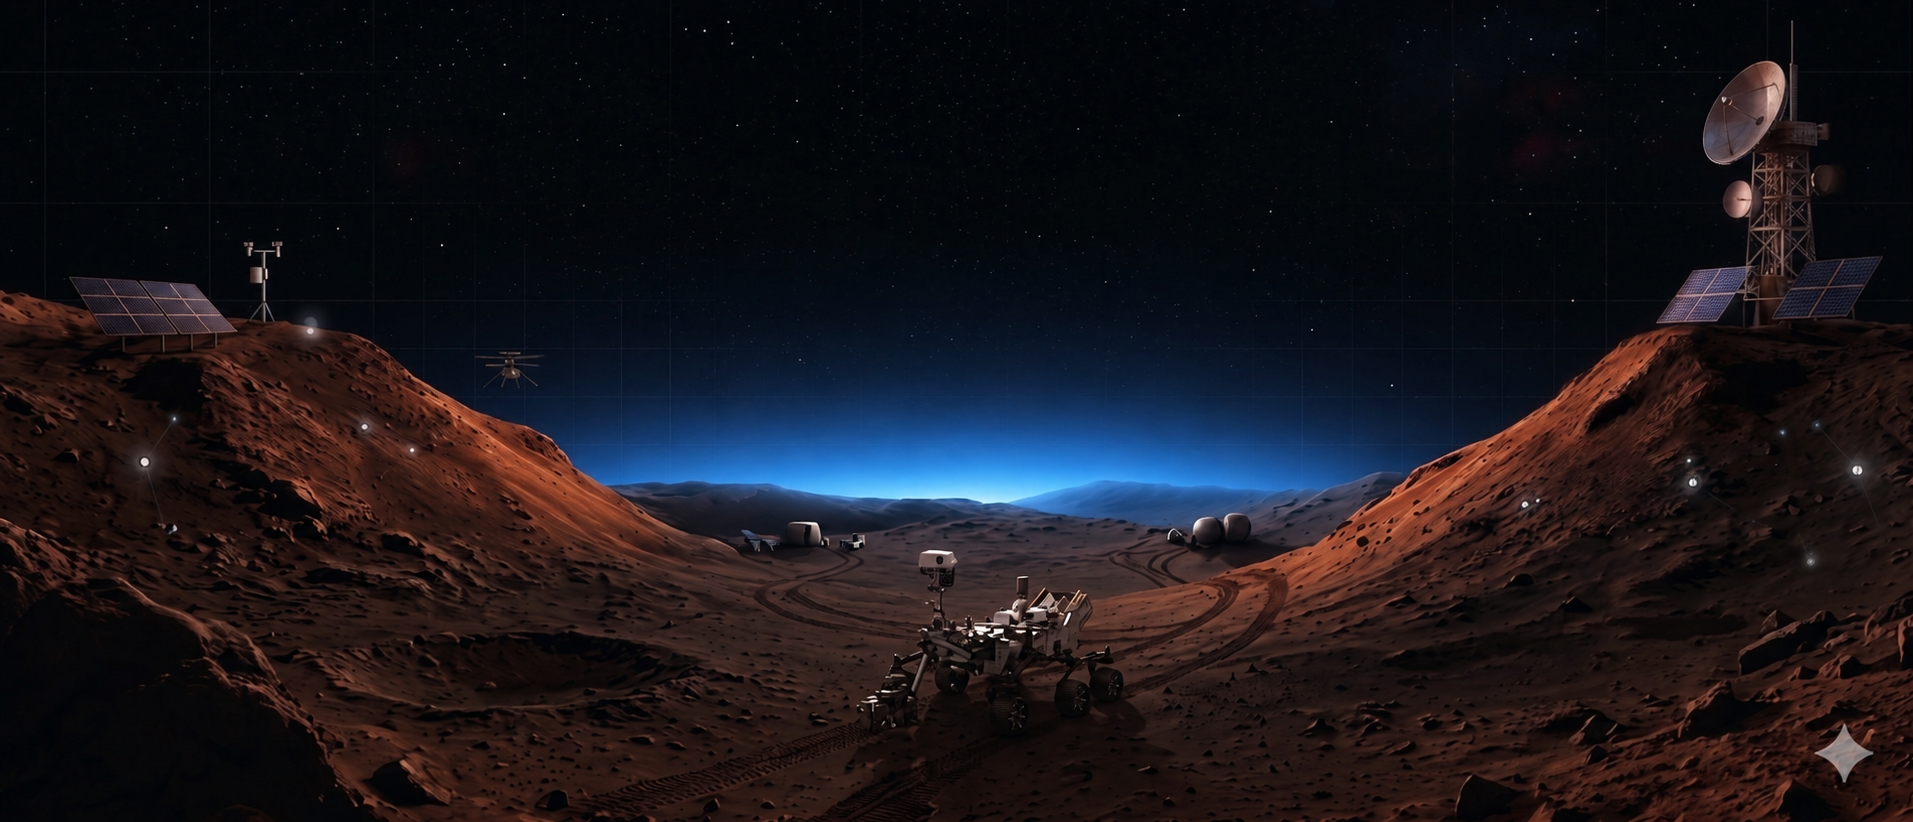
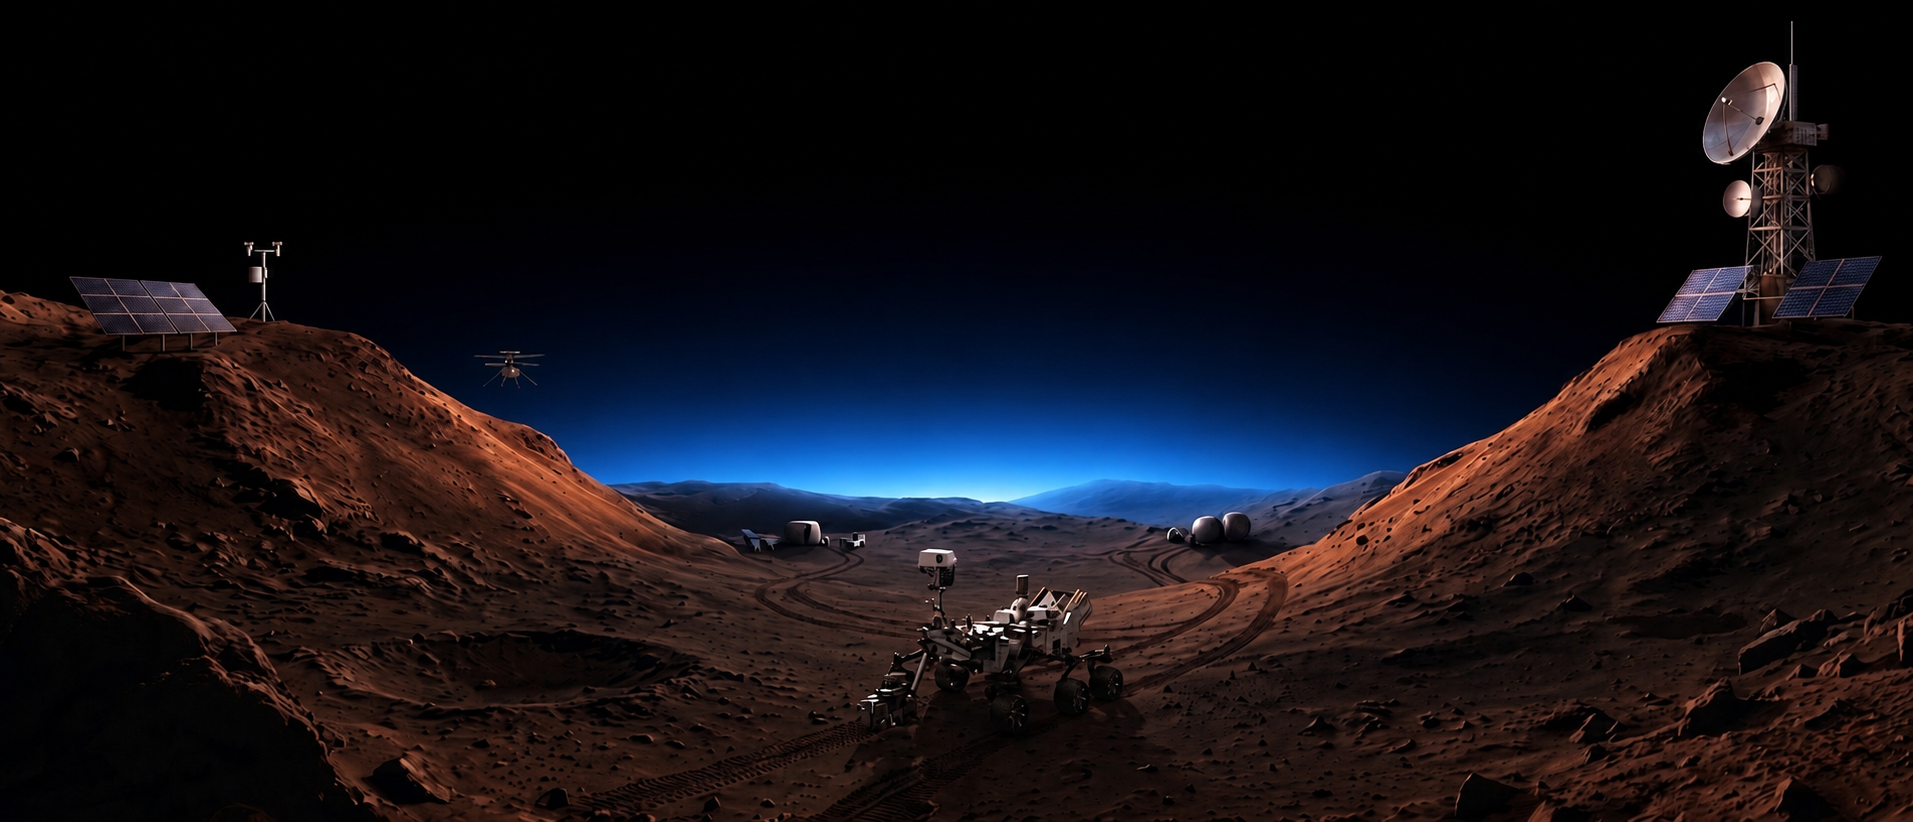
style: footer

diff --git a/components/Footer.tsx b/components/Footer.tsx
@@ -56,6 +56,94 @@ const socialLinks = [
   },
 ];
 
+const footerStars = [
+  { left: '8%', top: '24%', size: 2, opacity: 0.42, blur: 0, flare: 0.55 },
+  { left: '15%', top: '58%', size: 2.5, opacity: 0.34, blur: 0.2, flare: 0 },
+  { left: '26%', top: '34%', size: 2, opacity: 0.32, blur: 0, flare: 0.45 },
+  { left: '38%', top: '17%', size: 2.5, opacity: 0.38, blur: 0.1, flare: 0.65 },
+  { left: '52%', top: '49%', size: 1.5, opacity: 0.28, blur: 0, flare: 0 },
+  { left: '64%', top: '27%', size: 3, opacity: 0.34, blur: 0.4, flare: 0.5 },
+  { left: '77%', top: '63%', size: 2, opacity: 0.3, blur: 0, flare: 0 },
+  { left: '88%', top: '35%', size: 2.5, opacity: 0.38, blur: 0.2, flare: 0.6 },
+  { left: '94%', top: '14%', size: 2, opacity: 0.28, blur: 0, flare: 0 },
+];
+
+const footerDepthStars = [
+  { left: '11%', top: '41%', size: 4, opacity: 0.22, blur: 1.3, flare: 0 },
+  { left: '44%', top: '71%', size: 3.5, opacity: 0.18, blur: 1, flare: 0 },
+  { left: '71%', top: '18%', size: 4, opacity: 0.2, blur: 1.5, flare: 0 },
+  { left: '83%', top: '50%', size: 4.5, opacity: 0.16, blur: 1.8, flare: 0 },
+];
+
+const skyStars = [
+  { left: '7%', top: '16%', size: 2.5, opacity: 0.7, blur: 0, flare: 0.9 },
+  { left: '13%', top: '31%', size: 3, opacity: 0.56, blur: 0.2, flare: 0.7 },
+  { left: '21%', top: '12%', size: 2, opacity: 0.52, blur: 0, flare: 0.55 },
+  { left: '30%', top: '39%', size: 3.5, opacity: 0.46, blur: 0.5, flare: 0 },
+  { left: '68%', top: '18%', size: 2.5, opacity: 0.62, blur: 0, flare: 0.75 },
+  { left: '75%', top: '34%', size: 3, opacity: 0.52, blur: 0.2, flare: 0.65 },
+  { left: '83%', top: '13%', size: 3.5, opacity: 0.48, blur: 0.6, flare: 0 },
+  { left: '92%', top: '28%', size: 2.5, opacity: 0.6, blur: 0, flare: 0.8 },
+];
+
+function StarLayer({
+  stars,
+  className = '',
+}: {
+  stars: { left: string; top: string; size: number; opacity: number; blur: number; flare: number }[];
+  className?: string;
+}) {
+  return (
+    <div className={`pointer-events-none absolute ${className}`} aria-hidden="true">
+      {stars.map((star) => (
+        <span
+          key={`${star.left}-${star.top}`}
+          className="absolute"
+          style={{
+            left: star.left,
+            top: star.top,
+            width: `${star.size * 8}px`,
+            height: `${star.size * 8}px`,
+            opacity: star.opacity,
+            transform: 'translate(-50%, -50%)',
+          }}
+        >
+          {star.flare > 0 && (
+            <>
+              <span
+                className="absolute left-1/2 top-1/2 h-px -translate-x-1/2 -translate-y-1/2 rounded-full bg-gradient-to-r from-transparent via-white to-transparent"
+                style={{
+                  width: `${star.size * 8}px`,
+                  opacity: star.flare,
+                  filter: `blur(${Math.max(star.blur, 0.2)}px)`,
+                }}
+              />
+              <span
+                className="absolute left-1/2 top-1/2 w-px -translate-x-1/2 -translate-y-1/2 rounded-full bg-gradient-to-b from-transparent via-white to-transparent"
+                style={{
+                  height: `${star.size * 8}px`,
+                  opacity: star.flare * 0.85,
+                  filter: `blur(${Math.max(star.blur, 0.2)}px)`,
+                }}
+              />
+            </>
+          )}
+          <span
+            className="absolute left-1/2 top-1/2 rounded-full bg-white"
+            style={{
+              width: `${star.size}px`,
+              height: `${star.size}px`,
+              transform: 'translate(-50%, -50%)',
+              filter: `blur(${star.blur}px)`,
+              boxShadow: `0 0 ${star.size * 5}px rgba(160, 210, 255, ${Math.min(star.opacity + 0.18, 0.8)})`,
+            }}
+          />
+        </span>
+      ))}
+    </div>
+  );
+}
+
 function Bracketed({ children, className = '' }: { children: ReactNode; className?: string }) {
   return (
     <div className={`relative ${className}`}>
@@ -103,7 +191,7 @@ export default function Footer() {
   };
 
   return (
-    <footer className="relative z-20 overflow-hidden bg-[#050607] pt-10 text-white sm:pt-12">
+    <footer className="relative z-20 overflow-hidden bg-black pt-10 text-white sm:pt-12">
       {/* Top border glow */}
       <div className="pointer-events-none absolute left-0 top-0 h-px w-full bg-gradient-to-r from-transparent via-[#4FAEF3]/60 to-transparent" />
 
@@ -127,8 +215,11 @@ export default function Footer() {
         }}
       />
 
+      <StarLayer stars={footerDepthStars} className="inset-0 z-0" />
+      <StarLayer stars={footerStars} className="inset-0 z-0 [mask-image:linear-gradient(to_bottom,transparent,black_14%,black_84%,transparent)]" />
+
       {/* Main Content Wrapper */}
-      <div className="relative mx-auto w-full max-w-7xl px-5 sm:px-8 md:px-12 lg:px-16">
+      <div className="relative z-10 mx-auto w-full max-w-7xl px-5 sm:px-8 md:px-12 lg:px-16">
 
         {/* System label */}
         <div className="mb-5 flex items-center gap-3 sm:mb-6">
@@ -326,8 +417,12 @@ export default function Footer() {
 
       {/* Logo overlay + Full Bleed Image Foundation */}
       <div className="relative w-full">
+        <StarLayer
+          stars={skyStars}
+          className="inset-x-0 top-0 z-10 h-[42%] [mask-image:radial-gradient(ellipse_at_center,transparent_0%,transparent_22%,black_42%),linear-gradient(to_bottom,black_0%,black_76%,transparent_100%)]"
+        />
         <motion.div
-          className="absolute inset-x-0 top-0 z-20 flex flex-col items-center px-4 pt-6 sm:pt-8 md:pt-10 lg:pt-14"
+          className="absolute inset-x-0 top-0 z-20 flex flex-col items-center px-4 pt-10 sm:pt-14 md:pt-16 lg:pt-20"
           initial={{ opacity: 0, y: 24 }}
           whileInView={{ opacity: 1, y: 0 }}
           transition={{ duration: 0.9, ease: 'easeOut' }}
@@ -352,7 +447,7 @@ export default function Footer() {
 
         <div className="pointer-events-none relative z-0 flex h-[clamp(300px,43vw,650px)] w-full justify-center overflow-hidden leading-none sm:h-[clamp(360px,43vw,680px)] lg:h-[clamp(500px,42vw,760px)]">
           <Image
-            src="/footer.jpg"
+            src="/footer.png"
             alt="RoboVITics Technical Landscape Foundation"
             width={1913}
             height={822}